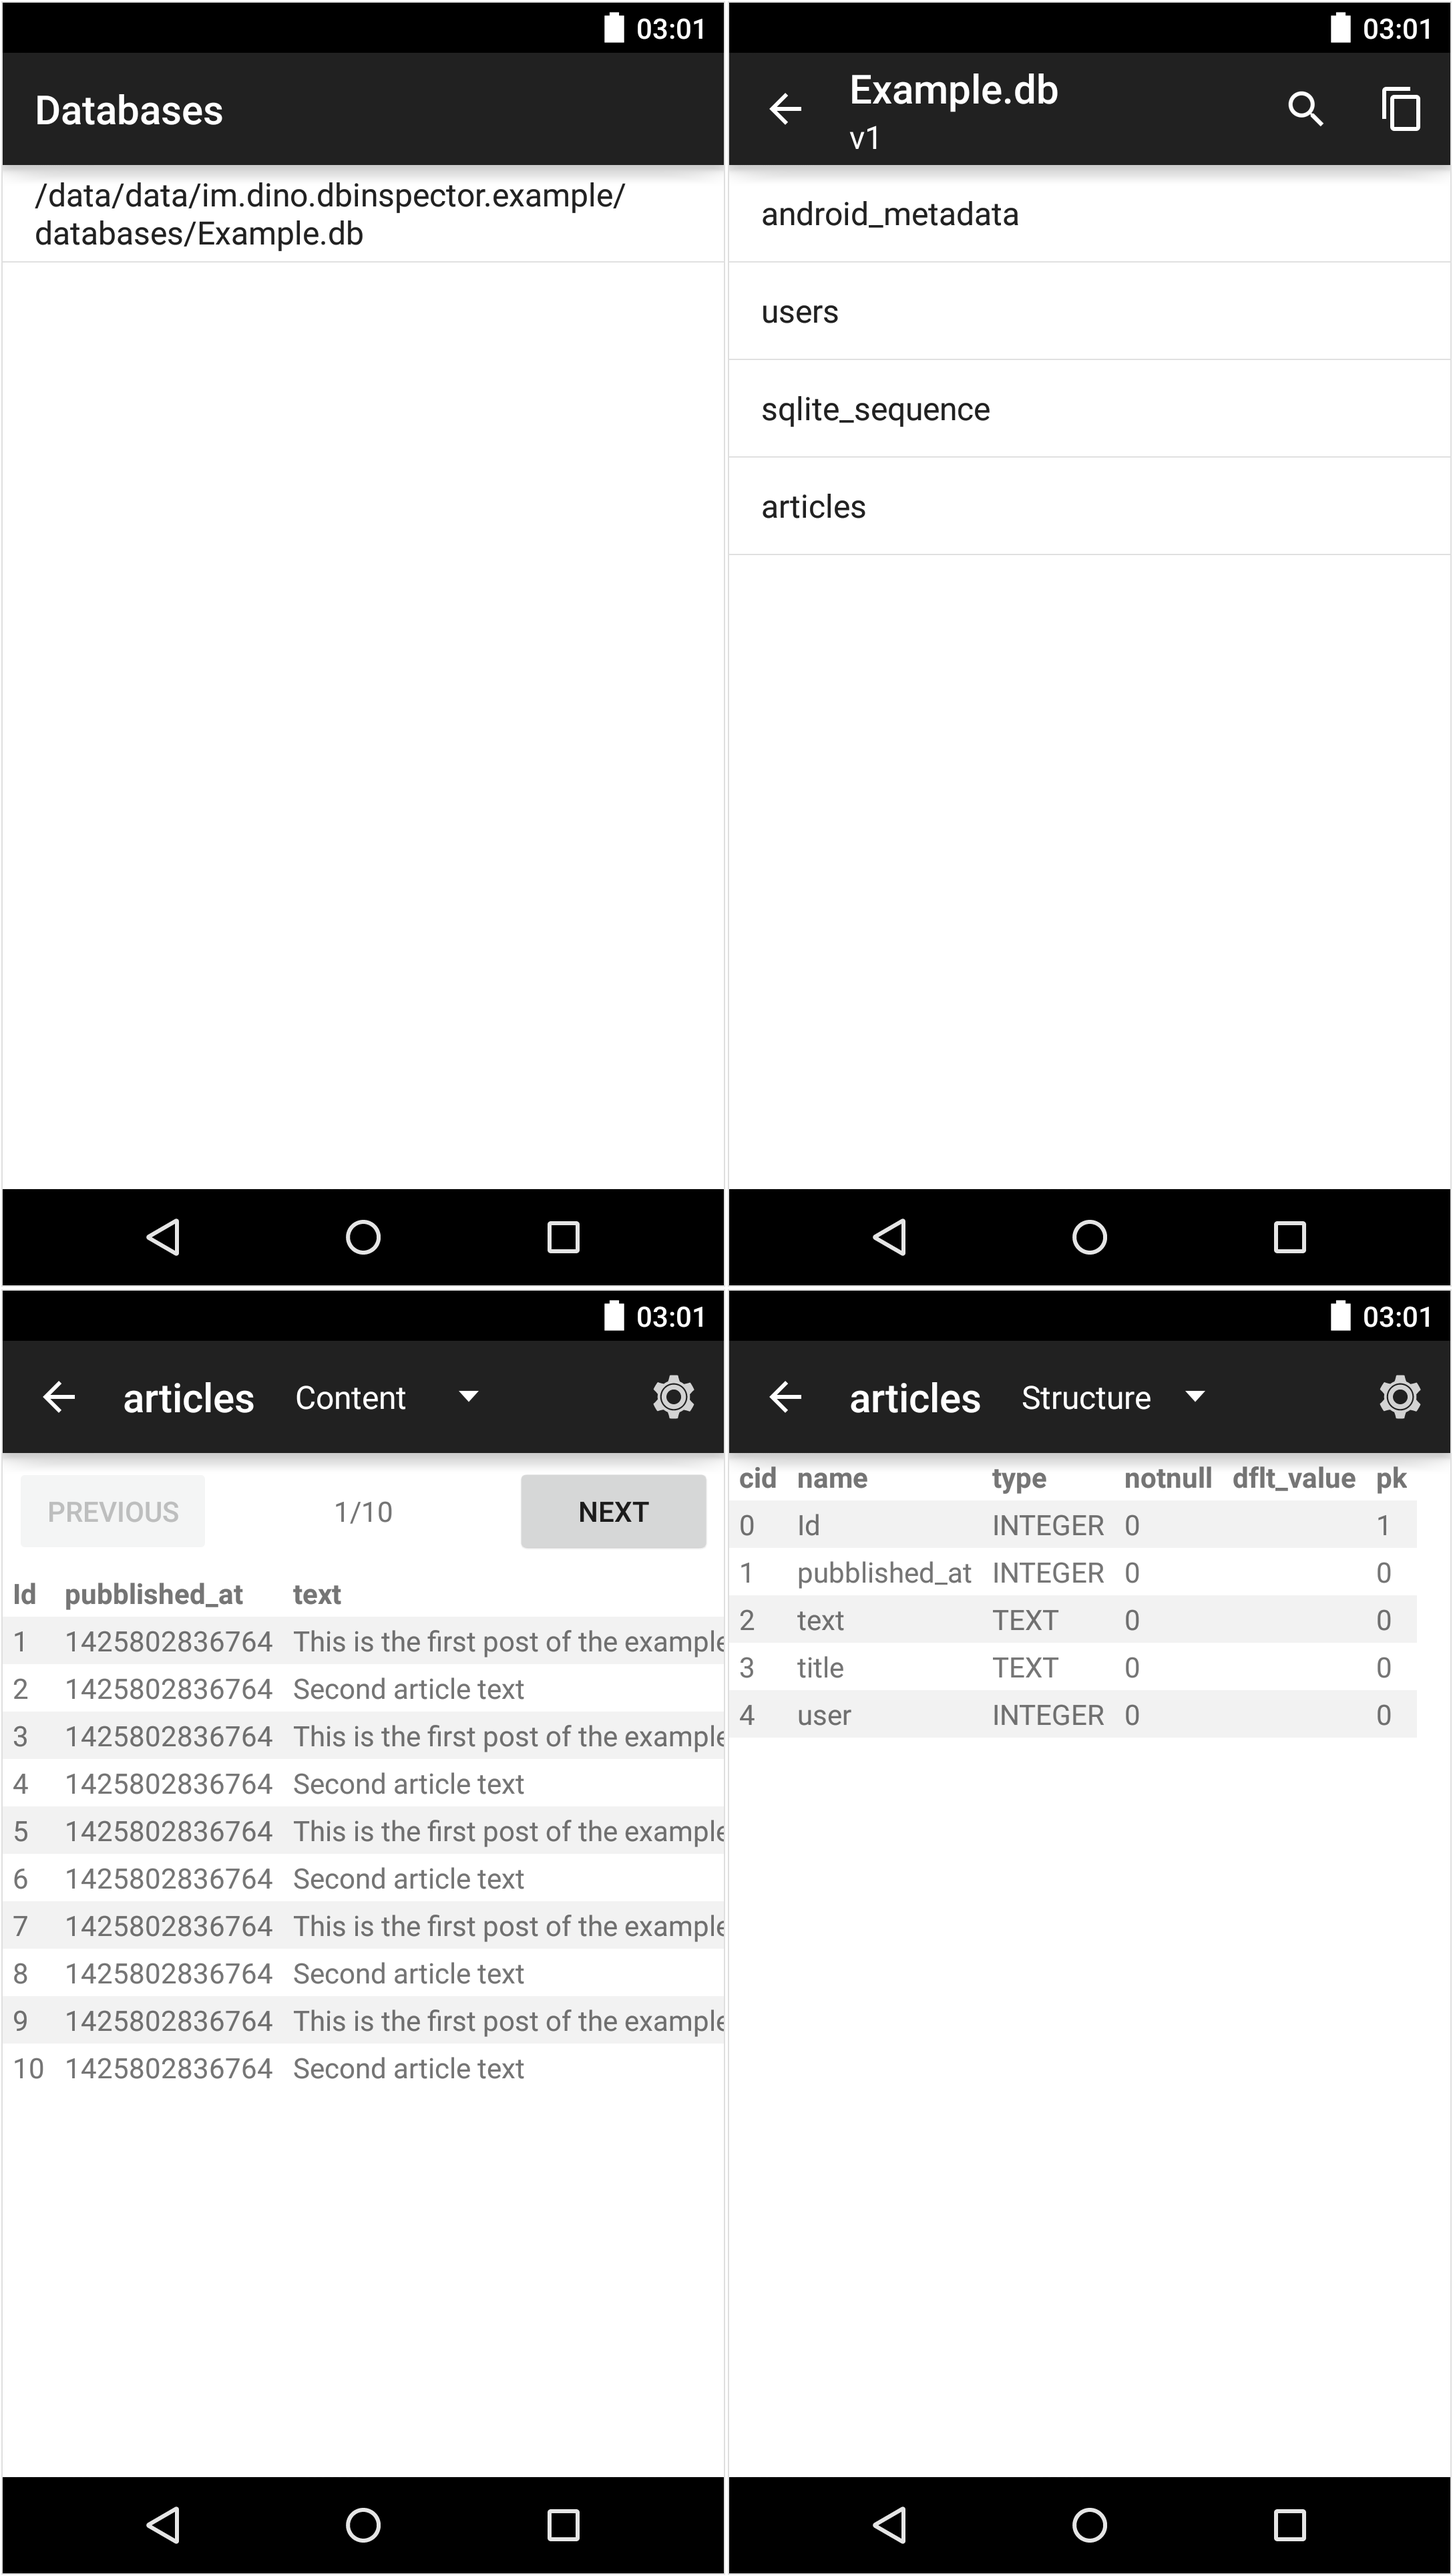
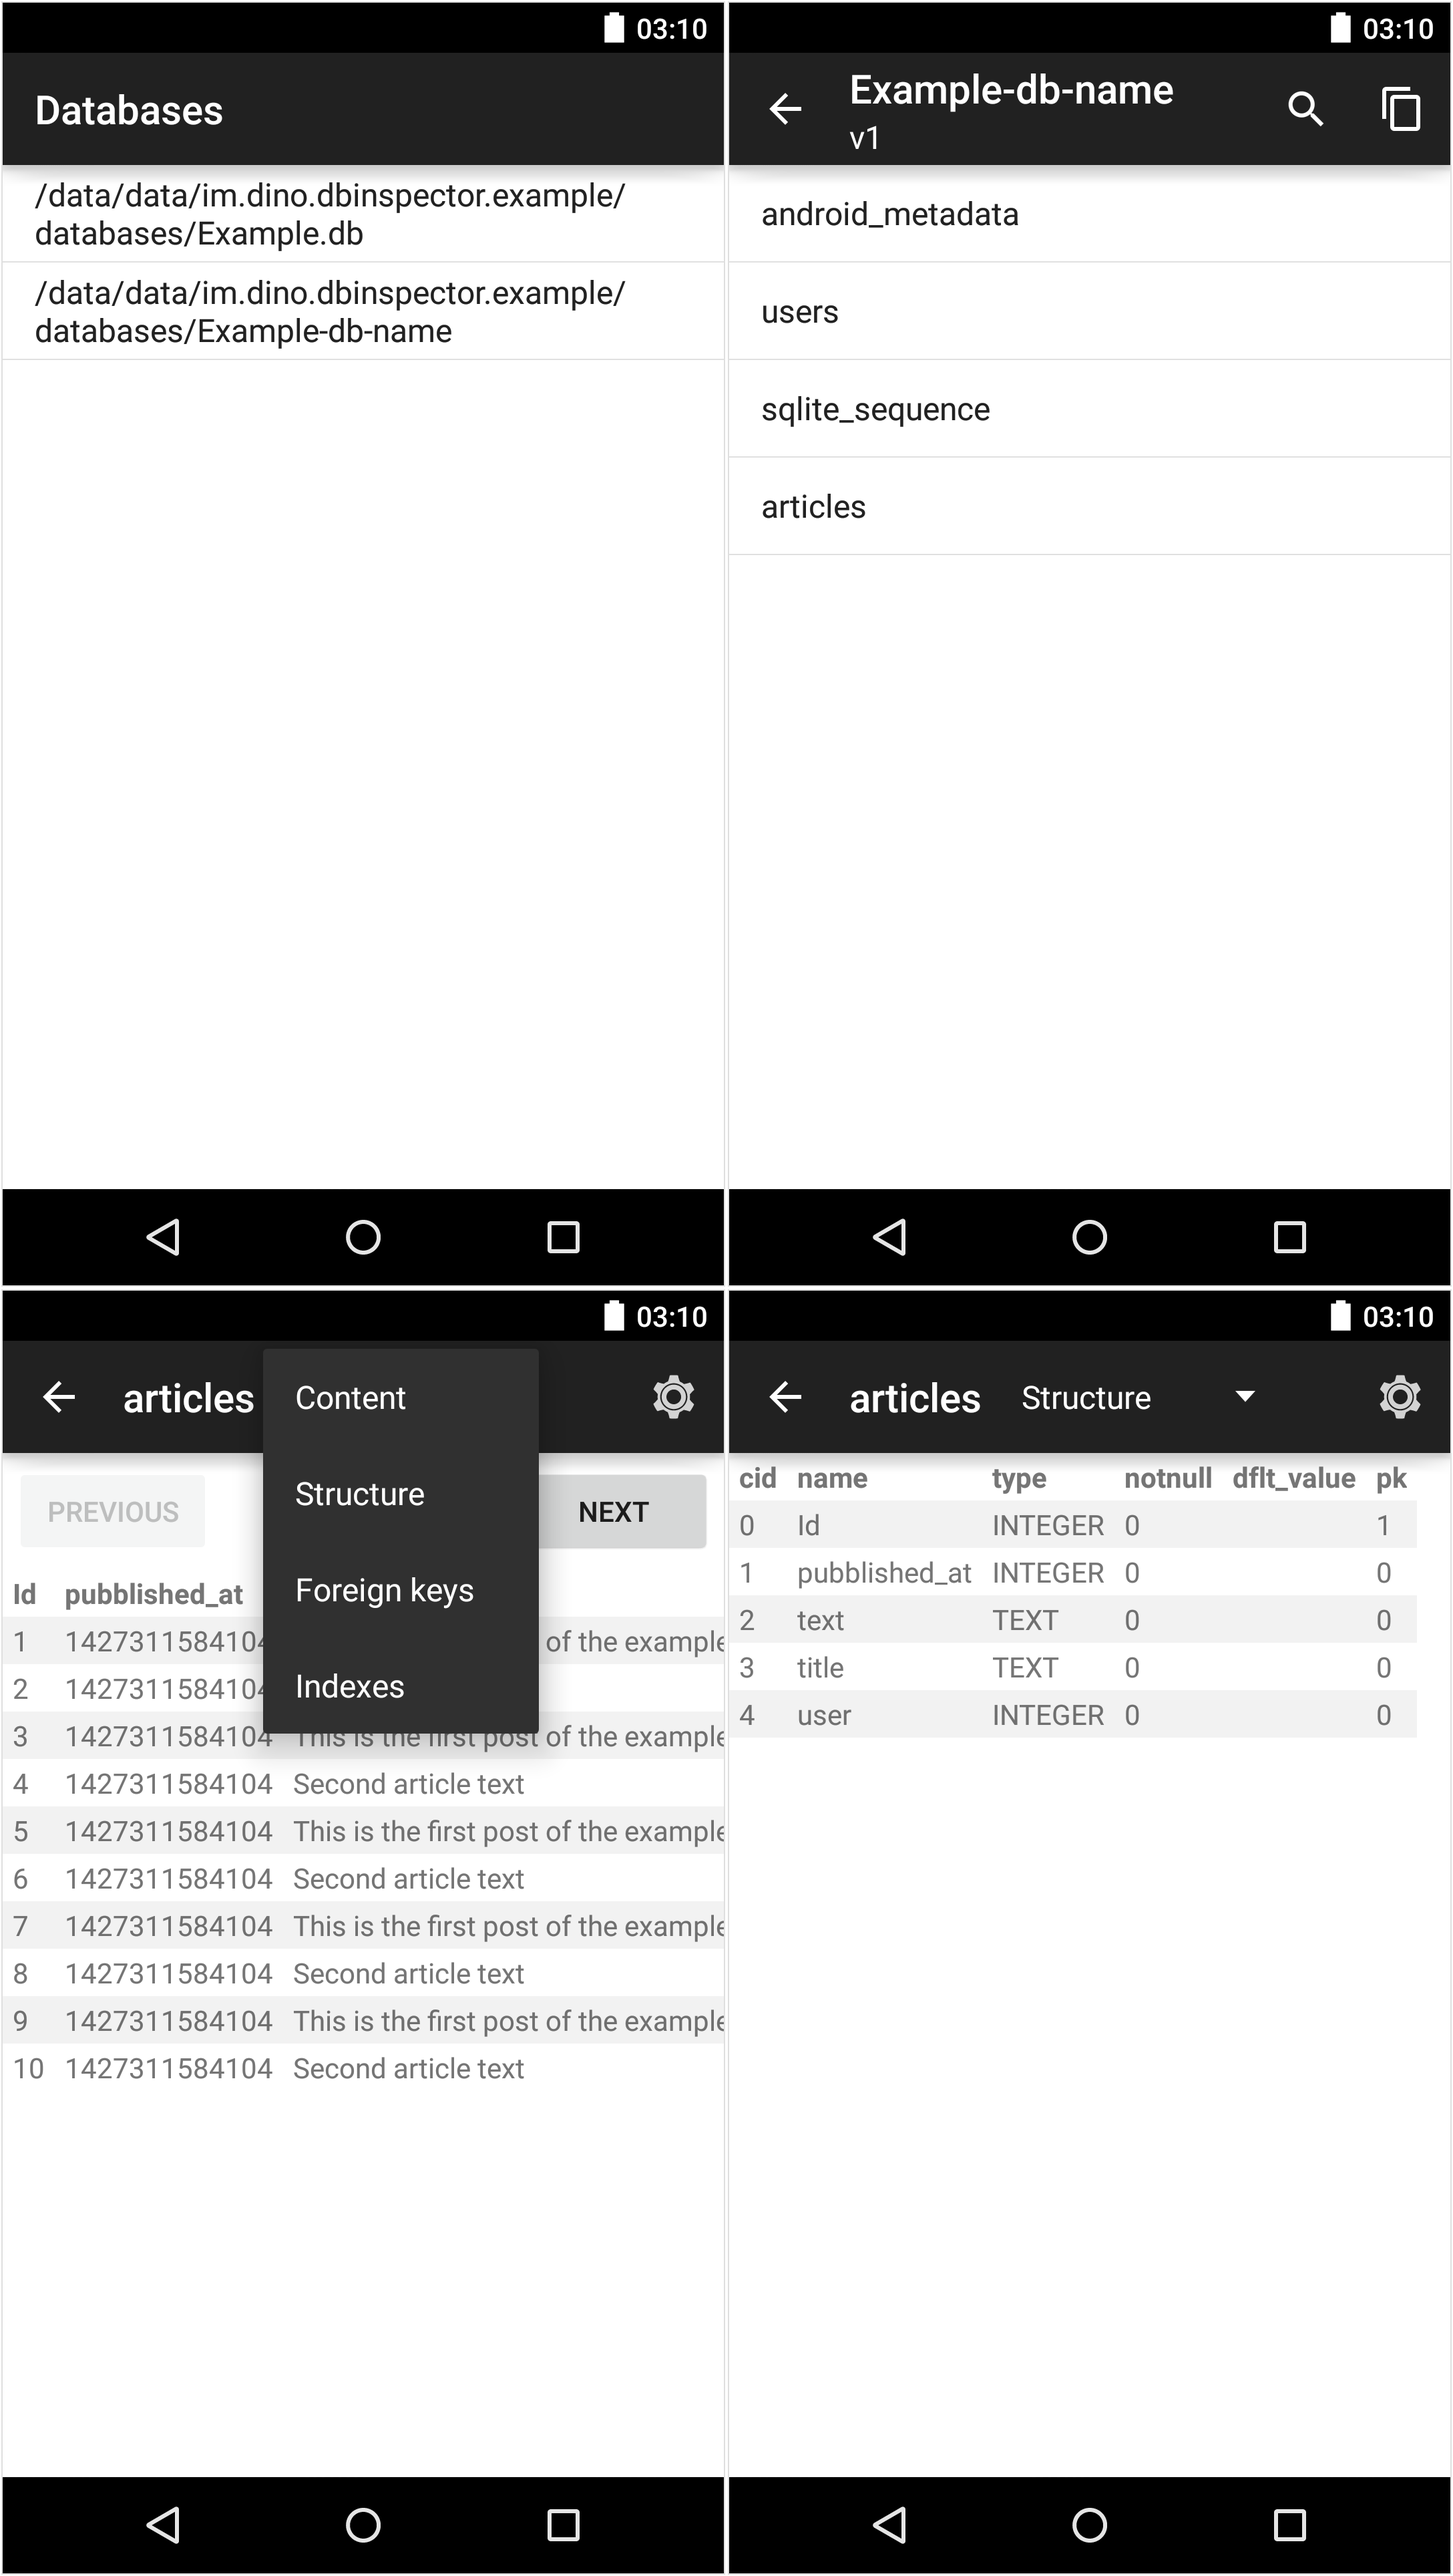
Bumped to 3.1.0, updated changelog and screenshots

diff --git a/CHANGELOG.md b/CHANGELOG.md
@@ -1,6 +1,13 @@
 Changelog
 =========
 
+## Version 3.1.0
+
+_2015-03-25_
+
+ * Fix: #14 Database chooser doesn't show db with name without extension
+ * New: New table views - `Foreign keys` and `Indexes` (thanks to @zplesac)
+
 ## Version 3.0.1
 
 _2015-03-08_
